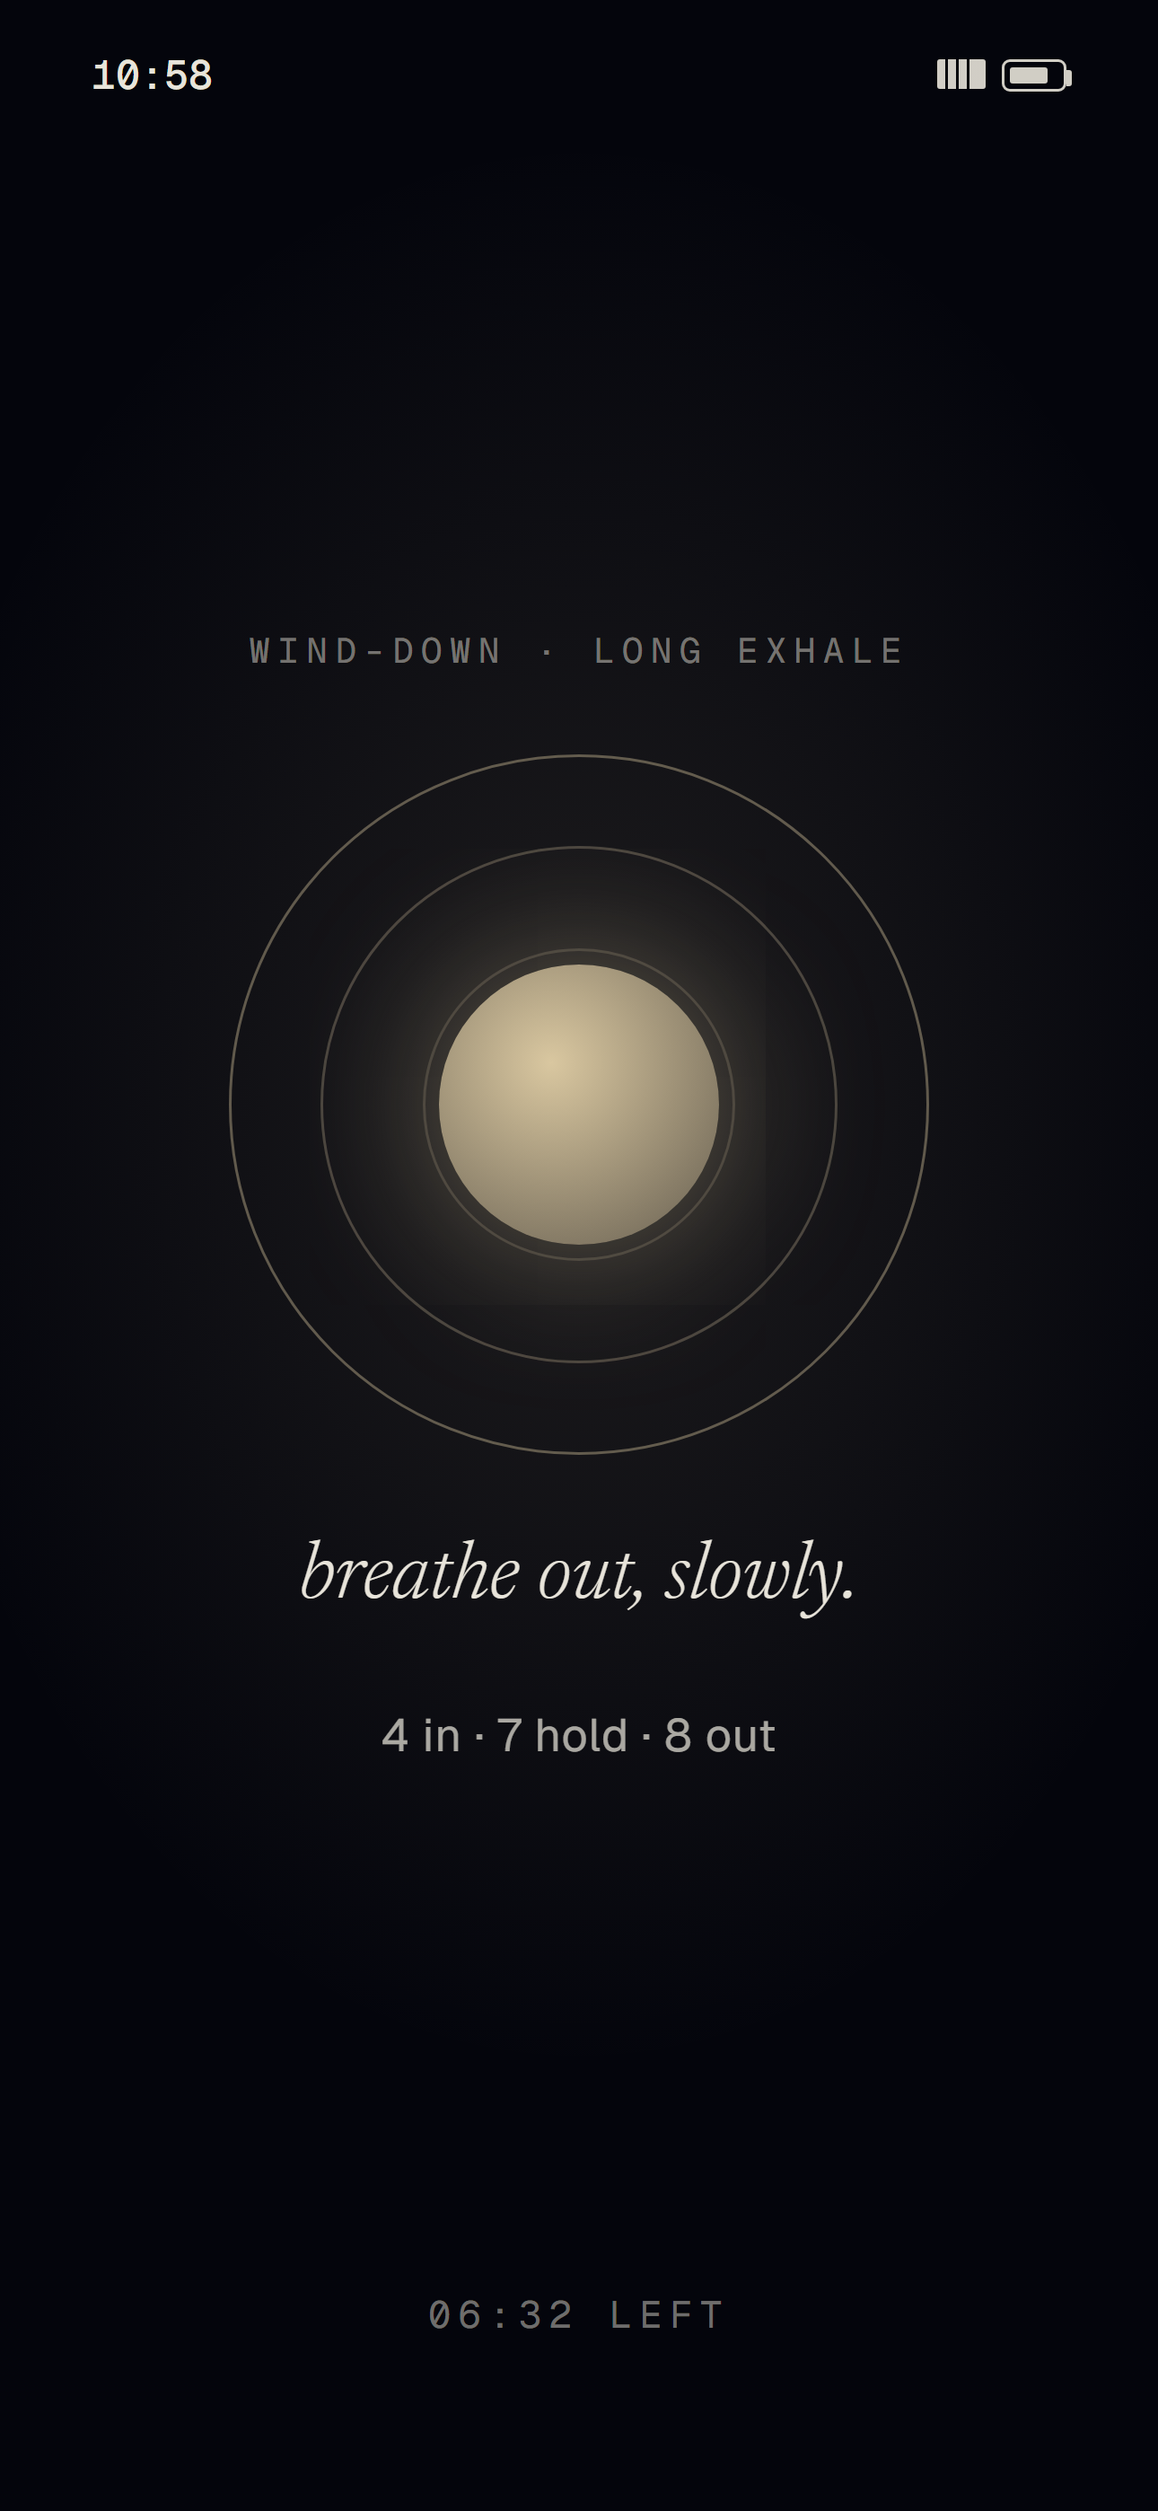
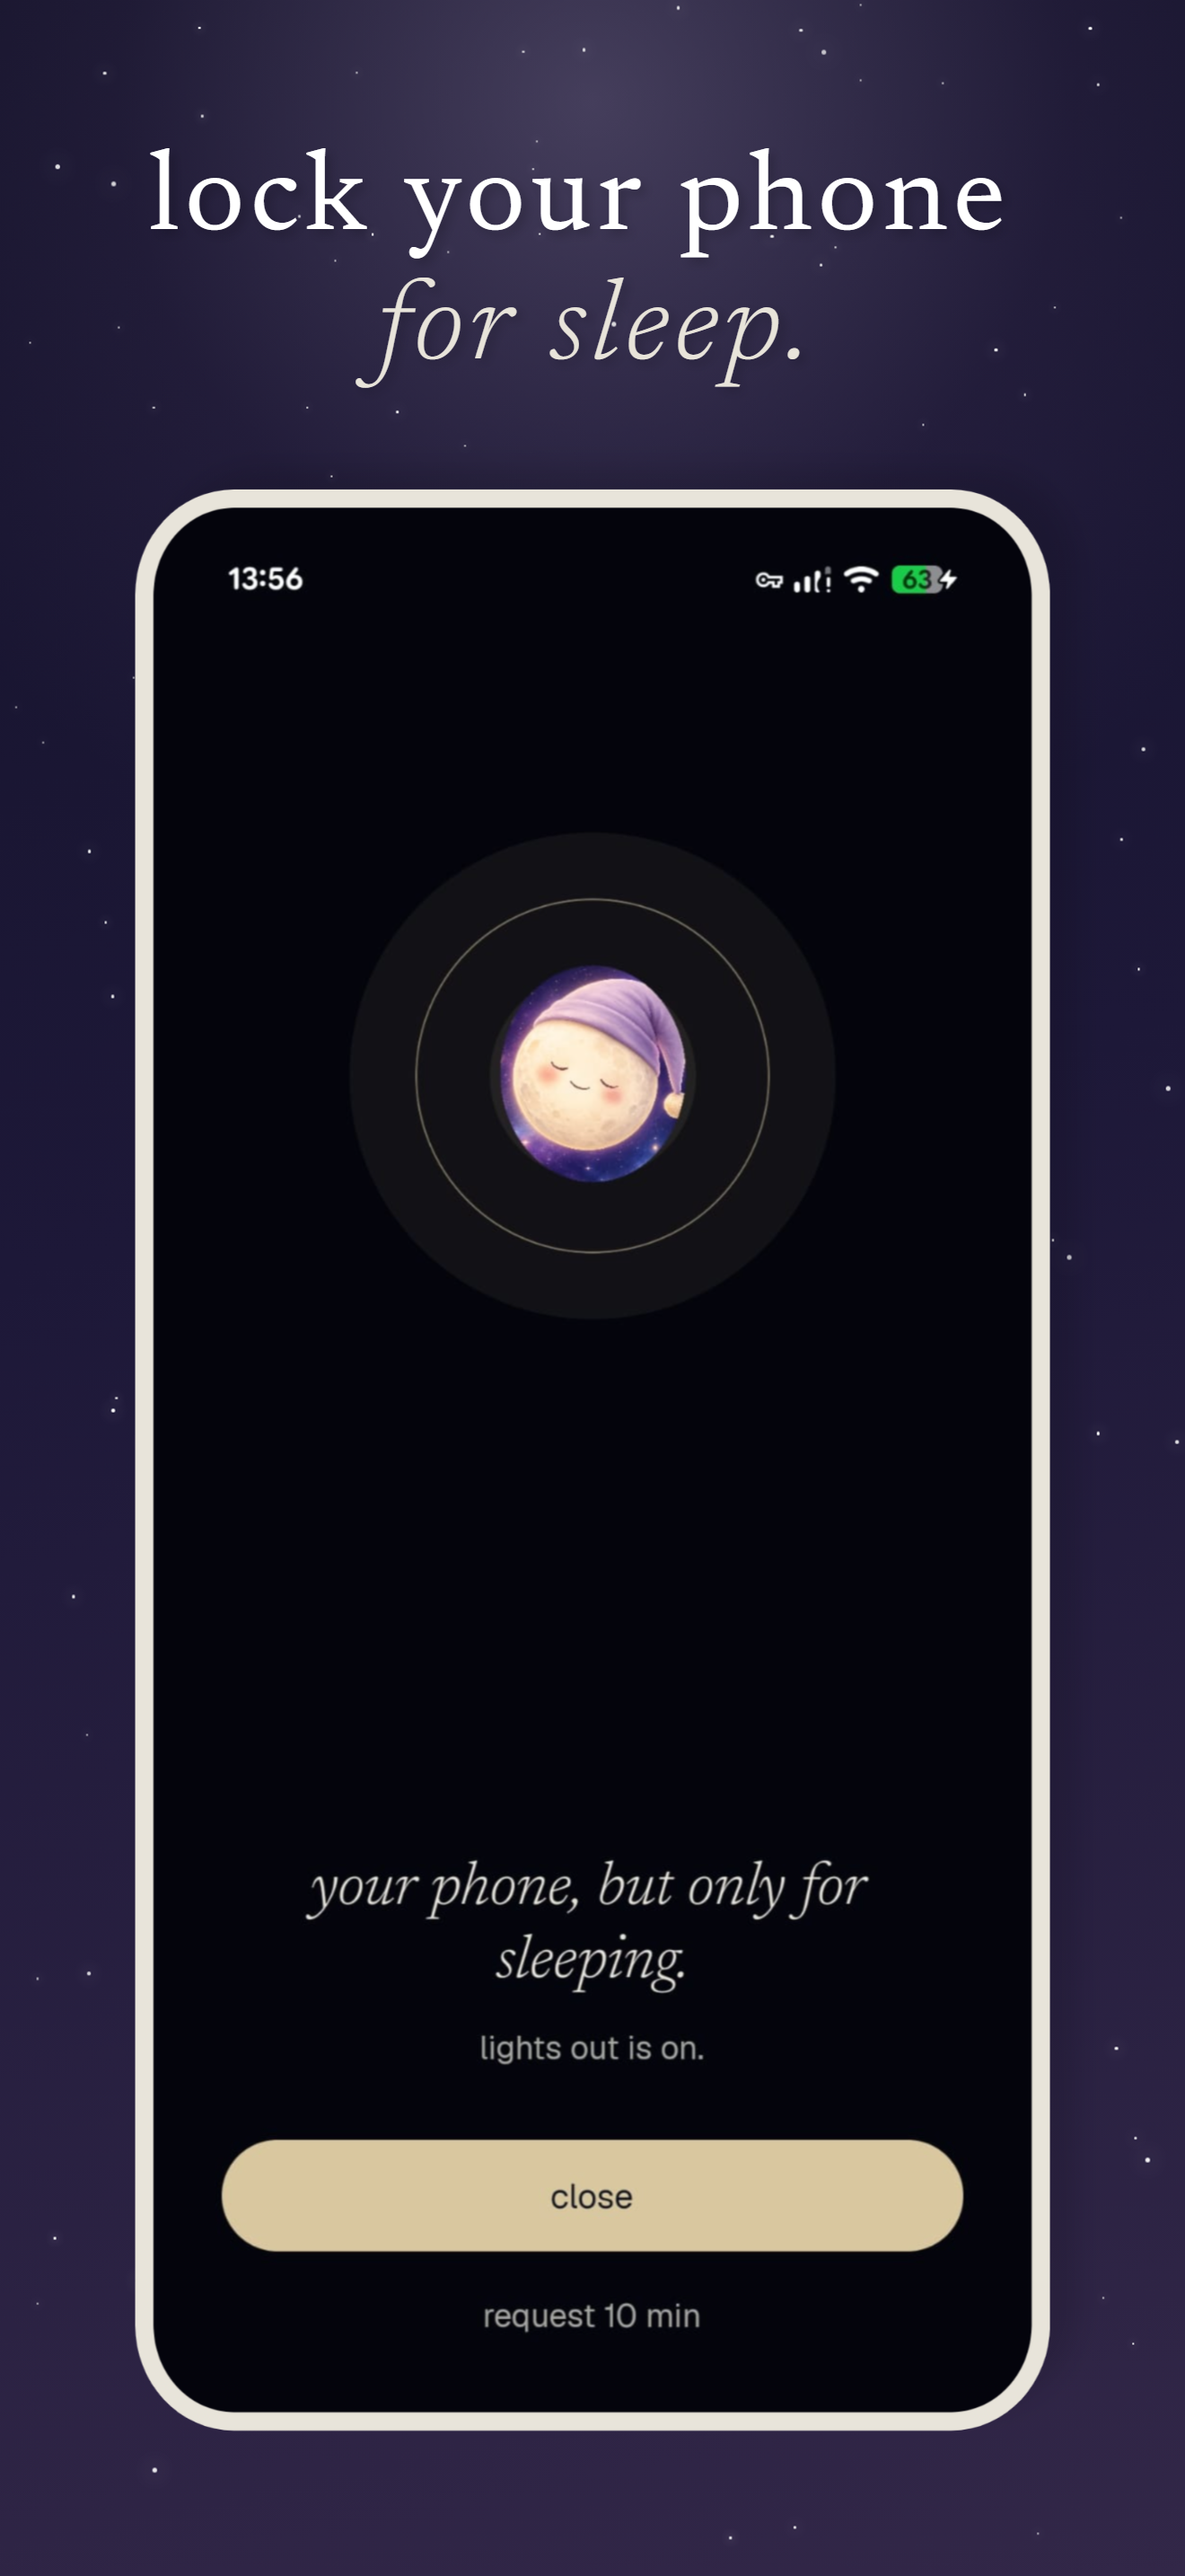
apps: real screenshots for Lights Out + Pebble
Lights Out landing page now shows raw device captures inside the phone
bezel (shield, 4-7-8 wind-down, protocol chooser) instead of the framed
App Store panels, which duplicated the section headlines. The late-night
scroll stays a CSS surface. Apps-index card keeps the first 3 store
panels (01-03), consistent with Tidywell.

Pebble apps-index card switches from the waitlist placeholder to the
3-phone tray using the first 3 store screenshots. Pebble landing page
uses raw captures (today, brief, symptom picker) in the phone bezels and
notebook polaroids via a shared components/pebble/shots.ts; surfaces
with no clean raw match (body map, voice recording, day-detail, apple
health splash) keep their sketches.

diff --git a/components/lightsout/PhoneMockup.tsx b/components/lightsout/PhoneMockup.tsx
@@ -1,80 +1,51 @@
-/* CSS/SVG phone mockups for the Lights Out page. No real screenshots
- * yet — these render the brand's actual surfaces (shield, wind-down
- * session, the late-night scroll) so the page reads true to the app.
- * Swap in real captures later by replacing the per-variant screen. */
+/* Phone mockups for the Lights Out page. The shield, the wind-down
+ * session and the protocol chooser are real device captures, shown full
+ * bleed inside the brand's phone bezel so they read as the actual app.
+ * The late-night scroll stays a CSS surface — it illustrates the
+ * problem, not an app screen, so there's nothing real to capture. */
 
-import { Moon } from './Moon';
-
-function Breath({ core = 46, width = 122 }: { core?: number; width?: number }) {
-  return (
-    <span className="breath" style={{ width }}>
-      <span className="ring" />
-      <span className="ring" />
-      <span className="ring" />
-      <span className="core" style={{ width: core }} />
-    </span>
-  );
-}
+import Image from 'next/image';
 
 type Variant = 'shield' | 'shield-sm' | 'session' | 'deep-rest' | 'scroll';
 
+/* raw captures live in /public/apps/lightsout, 912x2048 */
+const SHOTS: Partial<Record<Variant, { src: string; alt: string }>> = {
+  shield: {
+    src: '/apps/lightsout/screen-shield.jpg',
+    alt: 'the lights out shield: your phone, but only for sleeping',
+  },
+  'shield-sm': {
+    src: '/apps/lightsout/screen-shield.jpg',
+    alt: 'the lights out shield: your phone, but only for sleeping',
+  },
+  session: {
+    src: '/apps/lightsout/screen-winddown.jpg',
+    alt: 'the 4-7-8 wind-down: breathe in for four, hold for seven, exhale for eight',
+  },
+  'deep-rest': {
+    src: '/apps/lightsout/screen-chooser.jpg',
+    alt: 'the wind-down chooser: how would you like to fall asleep',
+  },
+};
+
 export function PhoneMockup({ variant, float }: { variant: Variant; float?: boolean | 'b' }) {
   const floatClass = float ? `float${float === 'b' ? ' b' : ''}` : '';
+  const shot = SHOTS[variant];
 
+  if (shot) {
+    return (
+      <div className={`phone${floatClass ? ` ${floatClass}` : ''}`}>
+        <div className="screen shot">
+          <Image src={shot.src} alt={shot.alt} width={912} height={2048} sizes="244px" />
+        </div>
+      </div>
+    );
+  }
+
+  /* the late-night scroll — a representation of the problem, not an app
+   * screen, so it stays a CSS surface. */
   return (
     <div className={`phone${floatClass ? ` ${floatClass}` : ''}`}>
-      {variant === 'shield' || variant === 'shield-sm' ? (
-        <div className="screen shield">
-          <Moon size={variant === 'shield' ? 92 : 76} phase="full" breathe />
-          <div className="ph-title">
-            your phone, but only
-            <br />
-            for sleeping.
-          </div>
-          <div className="ph-body">lights out ends at 7:00 am. you&rsquo;ve got this.</div>
-          <div className="ph-btns">
-            <div className="ph-btn primary">close</div>
-            <div className="ph-btn ghost">request 10 min</div>
-          </div>
-        </div>
-      ) : null}
-
-      {variant === 'session' ? (
-        <div className="screen session">
-          <p className="ph-kicker">wind-down · long exhale</p>
-          <div style={{ margin: '18px 0' }}>
-            <Breath width={120} />
-          </div>
-          <div className="ph-title" style={{ fontSize: 16 }}>
-            breathe out, slowly.
-          </div>
-          <div className="ph-body" style={{ marginTop: 8 }}>
-            4 in · 7 hold · 8 out
-          </div>
-          <p className="ph-kicker" style={{ marginTop: 'auto' }}>
-            06:32 left
-          </p>
-        </div>
-      ) : null}
-
-      {variant === 'deep-rest' ? (
-        <div className="screen session">
-          <p className="ph-kicker">wind-down · deep rest</p>
-          <div style={{ margin: '24px 0' }}>
-            <Breath width={150} core={54} />
-          </div>
-          <div className="ph-title" style={{ fontSize: 17 }}>
-            let your body get heavy.
-          </div>
-          <div className="ph-body" style={{ marginTop: 10 }}>
-            non-sleep deep rest · 15 min
-          </div>
-          <p className="ph-kicker" style={{ marginTop: 'auto' }}>
-            screen dimming&hellip;
-          </p>
-        </div>
-      ) : null}
-
       {variant === 'scroll' ? (
         <div className="screen shield">
           <p className="ph-kicker danger">00:58 · still scrolling</p>

diff --git a/components/pebble/PhoneMockup.tsx b/components/pebble/PhoneMockup.tsx
@@ -10,6 +10,7 @@
 
 import Image from 'next/image';
 import { motion, useReducedMotion } from 'motion/react';
+import { PEBBLE_SHOTS } from './shots';
 import {
   TodaySketch,
   BriefSketch,
@@ -65,6 +66,7 @@ export function PhoneMockup({
 }: Props) {
   const reduce = useReducedMotion();
   const dims = SIZE_MAP[size];
+  const shot = PEBBLE_SHOTS[variant];
 
   return (
     <motion.div
@@ -122,51 +124,57 @@ export function PhoneMockup({
           }}
         />
 
-        {variant === 'splash' && <SplashScreen size={size} />}
-        {variant === 'today' && (
-          <div className="h-full w-full">
-            <TodaySketch />
-          </div>
-        )}
-        {variant === 'brief' && (
-          <div className="h-full w-full">
-            <BriefSketch />
-          </div>
-        )}
-        {variant === 'history' && (
-          <div className="h-full w-full">
-            <HistorySketch />
-          </div>
-        )}
-        {variant === 'brief-voice' && (
-          <div className="h-full w-full">
-            <BriefVoiceSketch />
-          </div>
-        )}
-        {variant === 'voice-recording' && (
-          <div className="h-full w-full">
-            <VoiceRecordingSketch />
-          </div>
-        )}
-        {variant === 'day-detail-moments' && (
-          <div className="h-full w-full">
-            <DayDetailMomentsSketch />
-          </div>
-        )}
-        {variant === 'symptom-picker' && (
-          <div className="h-full w-full">
-            <SymptomPickerSketch />
-          </div>
-        )}
-        {variant === 'body-map-front' && (
-          <div className="h-full w-full">
-            <BodyMapFrontSketch />
-          </div>
-        )}
-        {variant === 'body-map-back' && (
-          <div className="h-full w-full">
-            <BodyMapBackSketch />
-          </div>
+        {shot ? (
+          <Image src={shot.src} alt={shot.alt} fill sizes={`${dims.width}px`} style={{ objectFit: 'cover' }} />
+        ) : (
+          <>
+            {variant === 'splash' && <SplashScreen size={size} />}
+            {variant === 'today' && (
+              <div className="h-full w-full">
+                <TodaySketch />
+              </div>
+            )}
+            {variant === 'brief' && (
+              <div className="h-full w-full">
+                <BriefSketch />
+              </div>
+            )}
+            {variant === 'history' && (
+              <div className="h-full w-full">
+                <HistorySketch />
+              </div>
+            )}
+            {variant === 'brief-voice' && (
+              <div className="h-full w-full">
+                <BriefVoiceSketch />
+              </div>
+            )}
+            {variant === 'voice-recording' && (
+              <div className="h-full w-full">
+                <VoiceRecordingSketch />
+              </div>
+            )}
+            {variant === 'day-detail-moments' && (
+              <div className="h-full w-full">
+                <DayDetailMomentsSketch />
+              </div>
+            )}
+            {variant === 'symptom-picker' && (
+              <div className="h-full w-full">
+                <SymptomPickerSketch />
+              </div>
+            )}
+            {variant === 'body-map-front' && (
+              <div className="h-full w-full">
+                <BodyMapFrontSketch />
+              </div>
+            )}
+            {variant === 'body-map-back' && (
+              <div className="h-full w-full">
+                <BodyMapBackSketch />
+              </div>
+            )}
+          </>
         )}
       </div>
 

diff --git a/components/pebble/Polaroid.tsx b/components/pebble/Polaroid.tsx
@@ -3,7 +3,9 @@
  * a hand-lettered title, pencil-line sliders, a tiny Pebble in the
  * corner. Looks intentional, not "image missing". */
 
+import Image from 'next/image';
 import { Pebble } from './Pebble';
+import { PEBBLE_SHOTS } from './shots';
 
 /* Seeded RNG so waveform/receipt geometry is identical between SSR
  * and the client (no hydration mismatch). */
@@ -59,6 +61,7 @@ type Props = {
 };
 
 export function Polaroid({ variant, rotation = 0, caption }: Props) {
+  const shot = PEBBLE_SHOTS[variant];
   return (
     <figure
       className="polaroid relative inline-block"
@@ -99,20 +102,26 @@ export function Polaroid({ variant, rotation = 0, caption }: Props) {
           borderRadius: 22,
         }}
       >
-        <PhoneSketch variant={variant} />
+        {shot ? (
+          <Image src={shot.src} alt={shot.alt} fill sizes="232px" style={{ objectFit: 'cover' }} />
+        ) : (
+          <>
+            <PhoneSketch variant={variant} />
 
-        {/* faint dot grid inside */}
-        <div
-          aria-hidden
-          className="absolute inset-0"
-          style={{
-            backgroundImage:
-              'radial-gradient(circle at 1px 1px, rgba(28,26,24,0.08) 1px, transparent 1.5px)',
-            backgroundSize: '14px 14px',
-            pointerEvents: 'none',
-            opacity: 0.6,
-          }}
-        />
+            {/* faint dot grid inside */}
+            <div
+              aria-hidden
+              className="absolute inset-0"
+              style={{
+                backgroundImage:
+                  'radial-gradient(circle at 1px 1px, rgba(28,26,24,0.08) 1px, transparent 1.5px)',
+                backgroundSize: '14px 14px',
+                pointerEvents: 'none',
+                opacity: 0.6,
+              }}
+            />
+          </>
+        )}
       </div>
 
       {caption && (

diff --git a/app/apps/lightsout/lightsout.css b/app/apps/lightsout/lightsout.css
@@ -174,6 +174,9 @@
 .phone { position: relative; width: 244px; aspect-ratio: 9 / 19.5; border-radius: 38px; background: linear-gradient(160deg, #0b1020, #05070f); border: 1px solid var(--hairline-strong); box-shadow: inset 0 2px 0 rgba(232, 228, 218, 0.05), 0 40px 80px -30px rgba(0, 0, 0, 0.9), 0 0 60px -20px var(--sand-glow); padding: 12px; overflow: hidden; }
 .phone::before { content: ""; position: absolute; top: 12px; left: 50%; transform: translateX(-50%); width: 84px; height: 22px; border-radius: 999px; background: #05070f; z-index: 5; }
 .phone .screen { position: relative; height: 100%; border-radius: 28px; overflow: hidden; display: flex; flex-direction: column; align-items: center; justify-content: center; text-align: center; padding: 26px 20px; }
+/* real device capture, shown full bleed inside the bezel */
+.phone .screen.shot { padding: 0; background: #04050c; }
+.phone .screen.shot img { width: 100%; height: 100%; object-fit: cover; display: block; }
 .phone .screen.shield { background: radial-gradient(120% 70% at 50% 14%, rgba(120, 145, 199, 0.16), transparent 60%), #04050c; gap: 14px; }
 .phone .screen.session { background: radial-gradient(90% 60% at 50% 42%, rgba(217, 199, 160, 0.1), transparent 70%), #04050c; }
 .phone .screen.morning { background: linear-gradient(180deg, #1a1530 0%, #3a2740 38%, #b98a5e 100%); }

diff --git a/components/pebble/shots.ts b/components/pebble/shots.ts
@@ -1,0 +1,25 @@
+/* Real device captures for the Pebble marketing page, shown full bleed
+ * inside the phone bezels (PhoneMockup) and the notebook polaroids
+ * (Polaroid). Only the surfaces we actually shot are mapped — every
+ * other variant keeps its hand-drawn sketch. Lives in its own plain
+ * module (no 'use client') so the server-rendered Polaroid can read the
+ * data directly. Raw captures live in /public/apps/pebble, 912x2048. */
+
+export const PEBBLE_SHOTS: Record<string, { src: string; alt: string } | undefined> = {
+  today: {
+    src: '/apps/pebble/screen-today.jpg',
+    alt: 'the pebble today log: energy, pain and mood in three sliders',
+  },
+  brief: {
+    src: '/apps/pebble/screen-brief.jpg',
+    alt: 'the pebble brief: a one-page symptom summary your doctor reads in 60 seconds',
+  },
+  'brief-voice': {
+    src: '/apps/pebble/screen-brief.jpg',
+    alt: 'the pebble brief: your six minutes, summarised on one page',
+  },
+  'symptom-picker': {
+    src: '/apps/pebble/screen-picker.jpg',
+    alt: 'the pebble symptom picker: tap what is going on today',
+  },
+};

diff --git a/lib/apps.ts b/lib/apps.ts
@@ -149,7 +149,7 @@ export const APPS: AppEntry[] = [
     audience:
       'Chronically ill adults · ADHD/AuDHD brains · carers tracking on behalf · anyone who has bounced off Bearable',
     web: 'https://johnnybuildstech.com/apps/pebble',
-    shots: [],
+    shots: ['/apps/pebble/01.png', '/apps/pebble/02.png', '/apps/pebble/03.png'],
     accent: '#C66A4E',
     status: 'waitlist',
     waitlistHref: '/apps/pebble#waitlist',
